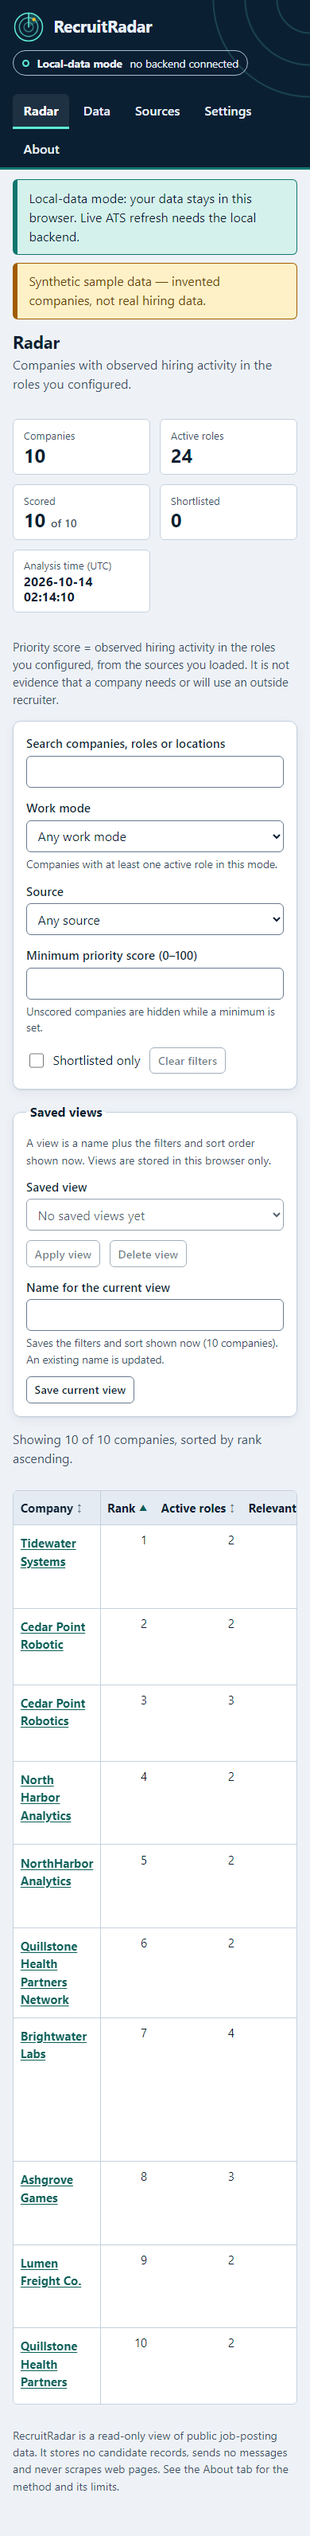
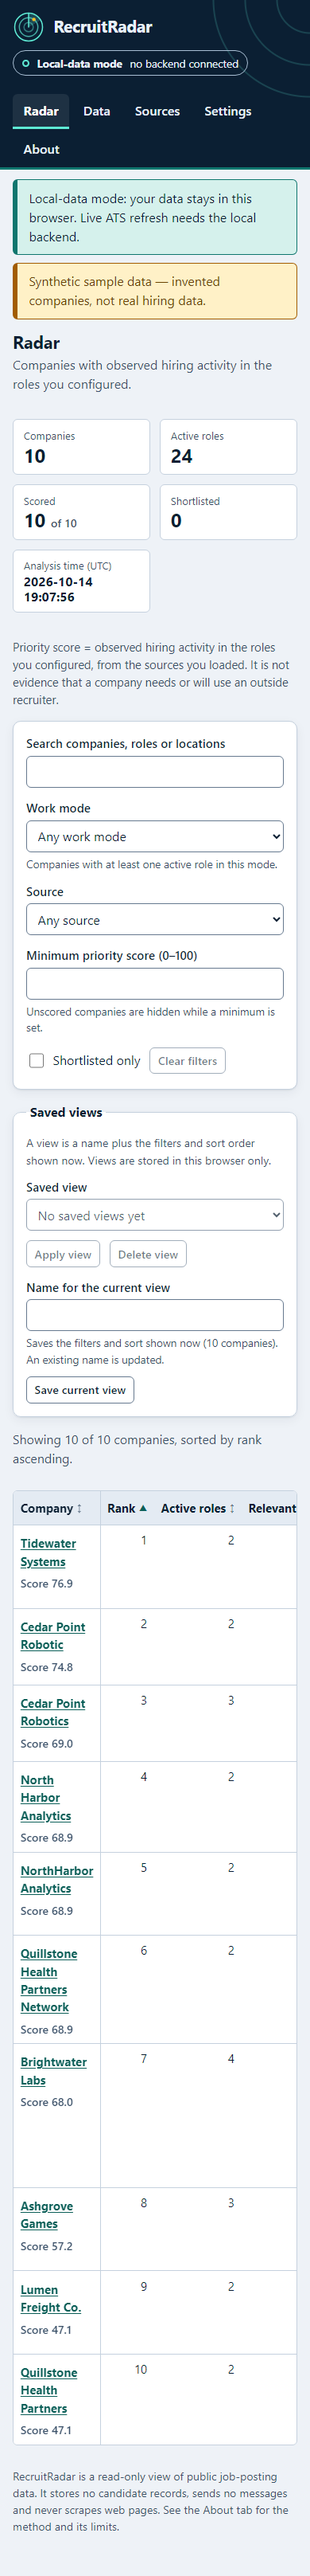
Record the independent 02B acceptance: test report, handoff, regenerated screenshots
- docs/test-report.md: Part 1 is the independent review (commands and exit codes of
  the final gate: 706 Vitest, 1,578 pytest, fuzz 948/0 and CSV 610/0, 20 Playwright;
  what was attacked; 12 findings with disposition; what could not be verified);
  Part 2 keeps the builder's 02A report.
- docs/handoff.md: state after acceptance, blockers before publication, gotchas.
- docs/screenshots/*.png regenerated from the final production build and inspected
  (mobile-radar shows the new per-row score).

diff --git a/docs/test-report.md b/docs/test-report.md
@@ -1,6 +1,189 @@
-# Test report (Prompt 02A build, builder's report)
+# Test report
 
-This is the **builder's** evidence. Independent acceptance (Prompt 02B) has not been run.
+Two reports live here. **Part 1** is the independent acceptance review (Prompt 02B, 2026-10-14): a
+separate session that did not write the code, reran everything, attacked it, fixed what it found and
+reran the gate. **Part 2** is the builder's original 02A report, kept for the record; where the two
+differ, Part 1 is the later evidence.
+
+Environment: Windows 10 (10.0.19045), Node.js v24.20.0, npm 11.19.0, Python 3.14.7, Microsoft Edge
+(Chromium) via Playwright 1.64.0. Reviewed commit: `d05d57f` (builder's last). Fixed tree: see
+`git log` on `phase/02a-build` (five review commits followed by this report).
+
+---
+
+# Part 1: independent acceptance (Prompt 02B)
+
+## Verdict
+
+**Ready for publication review.** Both required journeys work end to end; every REQUIRED V0.1 item
+exists and does what it says; nothing blocks the local demo. The review found and fixed one
+medium-severity defect class the builder's own differential testing had not looked at (two CSV
+importers that disagreed, see D-1), one scale defect (D-2) and several smaller ones (table below).
+Nothing is marked BLOCKED. Items that could not be verified here are listed under "Not verified".
+
+## Commands run and results
+
+Final gate on the fixed tree: `scripts/verify.ps1` (runs `npm ci` first), **overall exit 0**.
+
+| #   | Step                                  | Result                                                                                              |
+| --- | ------------------------------------- | --------------------------------------------------------------------------------------------------- |
+| 1   | `npm ci`                              | exit 0                                                                                              |
+| 2   | `npm run format:check`                | exit 0                                                                                              |
+| 3   | `npm run lint` (ESLint)               | exit 0                                                                                              |
+| 4   | `npm run typecheck` (`tsc --noEmit`)  | exit 0                                                                                              |
+| 5   | `npm test` (Vitest)                   | exit 0, **706 passed**, 3 skipped (the three differential-fuzz legs, which need an input file)      |
+| 6   | `npm run backend:lint` (ruff)         | exit 0                                                                                              |
+| 7   | `npm run backend:format`              | exit 0                                                                                              |
+| 8   | `npm run backend:types` (mypy strict) | exit 0                                                                                              |
+| 9   | `npm run backend:test` (pytest)       | exit 0, **1,578 passed**                                                                            |
+| 10  | `npm run vectors:check`               | exit 0 (47 analysis vectors + 173 normalization cases re-derived)                                   |
+| 11  | `npm run fuzz`                        | exit 0: analyze **948 cases / 0 mismatches** (oracle, Python, TS); CSV **610 cases / 0 mismatches** |
+| 12  | `npm run build`                       | exit 0                                                                                              |
+| 13  | `npm run secrets`                     | exit 0, no findings                                                                                 |
+| 14  | `npm run e2e` (Playwright)            | exit 0, **20 passed** against the production build under `/recruit-radar/`                          |
+
+Before the fixes, the builder's commit `d05d57f` was also cloned into a fresh directory with a new
+virtualenv (`pip install -r backend/requirements.lock.txt`) and `scripts/verify.ps1` run there:
+exit 0 (646 Vitest, 1,496 pytest, fuzz 948/0, 18 Playwright). So the builder's claim held: the
+defects below were not visible to the gate, they were missing from it.
+
+## What was attacked, and how
+
+### 1. Spec conformance, independently
+
+- **17 new scenarios hand-derived from `docs/spec/02`** before any engine was run, then compared with
+  the oracle, the Python engine and the TypeScript engine: 0 disagreements. They cover the change
+  window at exactly 30 days (excluded), +1 s (included), at `as_of` (included) and a snapshot 1 s
+  after `as_of` (ignored); the urgency threshold at exactly 45 days and 1 s short; the history span
+  at 14 vs 13 days; freshness at 7, 8, 59 and 60 days; a role removed then listed again; a
+  cross-source duplicate with corroboration; brackets, accents, CJK and keyword substring traps
+  ("engineer"/"engineering", "data"/"database"); a rename; a company whose roles all disappeared;
+  merge decisions with a stale "ghost" key; accent and full-width folding. (One expectation was
+  wrong: mine, a date-arithmetic slip at day 59/60. The engines were right.)
+- **More fuzz seeds against the unfixed tree:** seed 2 (1,648 cases), seed 99 (1,148), seed 31337
+  (748): 0 mismatches, and the 148-case accept/reject catalogue agreed on every case.
+- **Mutation checks in a scratch clone** (never the real tree): a Python-only change of the 30-day
+  window bound, a Python-only urgency threshold, a TypeScript-only window, an oracle-only freshness
+  bound: each is caught by the vectors, the engine unit tests and the fuzzer. Adding a field to a
+  Pydantic response model makes the OpenAPI drift test fail (2 failures). A formatting violation
+  makes `verify.ps1` and `verify.sh` exit 1 at the right step. A seeded GitHub-style token makes
+  `npm run secrets` exit 1.
+- The documented Unicode skew (Node 24 = Unicode 17, Python 3.14 = Unicode 16) was measured: exactly
+  4,699 letter/number/mark code points differ, none used by the golden vectors.
+
+### 2. Adapters against an adversarial ATS (own server, real sockets, 171 requests)
+
+Redirects to another host, port or scheme are refused and never followed; a redirect loop stops at
+3; declared-large, chunked and gzip-bomb bodies end in `too_large`; an endless Lever feed ends in
+`too_large` at 5,100 items; 401, 403, 404, 429 (with and without a usable `Retry-After`), 500, 204,
+an HTML 200, a `null` body, `NaN`, 100,000-deep JSON, invalid UTF-8 and an empty body each become
+exactly one recorded failed run and leave existing data untouched. Mixed-type fields (numeric ids,
+objects as titles, lone surrogates, `javascript:`/`ftp:` URLs, 10,000-character titles, duplicate ids,
+non-listed Ashby jobs) are dropped or nulled with the counts in the run message. The server saw only
+`GET`, one user agent, no cookies, no authorization header, and no path outside the three board
+templates. Job descriptions placed in every payload were never stored (searched the whole SQLite
+file). HTML in titles is stored as text and rendered as text.
+
+### 3. API
+
+22 token-bypass attempts (`../`, `%2e%2e`, `.`, `...`, unicode dots, full-width letters, NUL, newline,
+whitespace, 101 characters, `%2f`...) are all `422 invalid_token`; the same board with another letter
+case is `409 source_exists`; the error envelope was verified on 28 error paths; a CORS preflight
+from a foreign origin is refused and a foreign-origin `POST` is `403`; `DELETE /api/data` without the
+exact confirmation is `400`; 80 parallel writes and 24 parallel imports all succeed; a 40 MB body is
+`422` in 0.3 s; analysis of 50,000 stored postings takes 3.4 s. Start-up with a corrupt database,
+an unwritable path and a busy port were exercised.
+
+### 4. Journeys in the real UI
+
+The static build was served from a simulated GitHub Pages origin (`https://<account>.github.io/recruit-radar/`,
+browser route interception, nothing deployed) in a fresh browser context.
+
+- **Journey 1:** two overlapping CSVs of my own under different labels (4 + 5 rows), keywords set,
+  merge candidate found and accepted, evidence score hand-checked against the formulas (76.6: 30x1000
+  - 20x480 + 10x500 + 15x700 + 10x1000 over 85), the shortlist entry followed its company through
+    the merge, the shortlist export carried the same figures.
+- **Journey 2:** a Greenhouse board on the repository's fake ATS: first refresh baseline, board
+  changed (rename, removal, addition), second refresh shows `changed: title`, "no longer listed" and
+  "added" with timestamps and links, a listed-again role, 404/401/429/500/malformed runs recorded with
+  data preserved; a too-soon second click explains the 60 s rule; a source deleted from another tab
+  is reported when refreshed from a stale one; a company whose roles all disappear is "Not scored",
+  sorts last in both directions and exports blank score and rank.
+- **Live check, once:** one real read-only refresh per provider through the product's own adapters,
+  against the vendors' own sample/documented boards (Greenhouse's board, Lever's `leverdemo`,
+  Ashby's board): 17, 10 and 62 postings, all with dates, URLs, departments and locations mapped.
+  Three GET requests in total.
+- **Failure states:** backend offline (explained, local mode keeps working), backend answers with a
+  CORS problem (explained with the exact variable to set), storage quota exceeded (reported, nothing
+  half-saved), newer-schema and corrupt storage (kept untouched / backed up), a second tab (notice,
+  no lost update), hostile HTML in stored data (rendered as text, no script ran).
+- **Accessibility and layout:** skip link first; every tab stop has a focus ring; native dialog traps
+  focus, closes on Escape and returns focus to its trigger; `aria-sort` follows the sort; no
+  horizontal overflow at 320 px; reduced motion honored; dark mode readable; every in-page anchor
+  has a target; every external link is http(s) with `rel="noopener"`.
+- **Honesty:** the score caption, the "Possible urgency signal ... not evidence of hiring
+  difficulty" label (Radar breakdown, company page, About, exports) and "Missing information" are
+  present where the score is; no screen, export column, API field or error message implies that a
+  company needs, struggles with or will pay for a recruiter (the About page only negates it);
+  no LinkedIn, e-mail, outreach or candidate feature exists; a null component is never treated as
+  zero (sorting keeps unscored rows last in both directions, the minimum-score filter says it hides
+  them, exports leave the cells blank, coverage excludes them).
+
+## Defects found
+
+| #    | Severity   | Defect                                                                                                                                                                                                                                                                                                                                                                                                                                                                                                                                                  | Status                                                                                           |
+| ---- | ---------- | ------------------------------------------------------------------------------------------------------------------------------------------------------------------------------------------------------------------------------------------------------------------------------------------------------------------------------------------------------------------------------------------------------------------------------------------------------------------------------------------------------------------------------------------------------- | ------------------------------------------------------------------------------------------------ |
+| D-1  | Medium     | **The two CSV importers disagreed** (Python for the backend, TypeScript for local-data mode; never compared). A differential fuzz found 426 of 1,210 generated files giving different results; single-feature probes: whitespace-only lines, `""` lines, trailing empty cells, spaces around quoted fields, tab/NBSP in headers, NUL, apostrophe-led formula cells, malformed header rows, errors reported for broken rows. Connected mode re-derives correction rows with the TypeScript importer, so the in-place forms could contradict the backend. | Fixed: spec 05 "CSV details", both importers, 52 shared vectors, `fuzz_csv.py` in `npm run fuzz` |
+| D-2  | Medium     | Merge review rendered every candidate at once. 300 look-alike names ("Store 001"...) gave ~3,000 candidates and an **18 s** tab switch; 1,000 gave ~13,500.                                                                                                                                                                                                                                                                                                                                                                                             | Fixed: 25 per page; e2e `scale.spec.ts`; 1,000 look-alike companies import in about a second     |
+| D-3  | Low-medium | No `Host` header check: a hostile page whose domain is rebound to 127.0.0.1 could read the unauthenticated API as same origin.                                                                                                                                                                                                                                                                                                                                                                                                                          | Fixed: `400 host_not_allowed` before CORS/routing; `RECRUIT_RADAR_ALLOWED_HOSTS`; tests          |
+| D-4  | Low        | The 15 s provider timeout bounds each read, not the sum: a provider dripping a byte every 14 s held the global refresh lock for as long as it liked.                                                                                                                                                                                                                                                                                                                                                                                                    | Fixed: 60 s total per request; test with a drip stream                                           |
+| D-5  | Low        | A database locked by another program surfaced as an opaque 500 after 5 s.                                                                                                                                                                                                                                                                                                                                                                                                                                                                               | Fixed: `503 database_busy` + `Retry-After`; nothing lost; test                                   |
+| D-6  | Low        | A corrupt or unwritable database file crashed start-up with a traceback.                                                                                                                                                                                                                                                                                                                                                                                                                                                                                | Fixed: one line naming the file, exit code 2; tests                                              |
+| D-7  | Low        | Connected-mode shortlist export had no UTF-8 BOM (local mode did): Excel read accents as mojibake.                                                                                                                                                                                                                                                                                                                                                                                                                                                      | Fixed with tests                                                                                 |
+| D-8  | Low        | `npm run verify` omitted `npm run fuzz` although README, `verify.ps1`, `verify.sh` and CI include it.                                                                                                                                                                                                                                                                                                                                                                                                                                                   | Fixed                                                                                            |
+| D-9  | Low        | The randomized invariant suite used vitest's 5 s timeout and failed once under CPU load (flaky gate).                                                                                                                                                                                                                                                                                                                                                                                                                                                   | Fixed: 30 s project timeout                                                                      |
+| D-10 | Low        | No React error boundary: any render exception left a blank page with no explanation.                                                                                                                                                                                                                                                                                                                                                                                                                                                                    | Fixed: explained fallback; e2e forces a failure                                                  |
+| D-11 | Low        | On phones the radar's score column is off screen in the sideways-scrolling table.                                                                                                                                                                                                                                                                                                                                                                                                                                                                       | Fixed: score repeated under the name on narrow screens                                           |
+| D-12 | Info       | Settings said "Use the backend ... (also from a public page)", an unverifiable promise; architecture doc said snapshot ids are zero-padded (backend only); known limitations missed several facts.                                                                                                                                                                                                                                                                                                                                                      | Fixed (copy and docs)                                                                            |
+
+Not defects, recorded: local snapshot ids are plain sequence numbers, so two imports in the same
+wall-clock second that cross a digit boundary (9 to 10) would replay in string order (needs two
+imports within one second); the shortlist exporters word the evidence column slightly differently in
+the two modes; the e2e run rewrites tracked screenshots (documented in CONTRIBUTING).
+
+## Not verified (external or out of reach) and remaining issues
+
+- **GitHub Actions workflows** (CI, Pages): YAML parses and every action major equals the latest
+  release (checkout 7, setup-node 7, setup-python 7, upload-artifact 7, configure-pages 6,
+  upload-pages-artifact 5, deploy-pages 5), but nothing can run without a remote.
+- **Python 3.11 / 3.12 and Linux**: only Python 3.14 on Windows was available; mypy is configured
+  for 3.11 and passes. CI targets 3.12.
+- **A public page reaching a local backend**: depends on the browser's local-network-access policy;
+  not testable without a published page. The app explains the CORS and offline cases it can see.
+- **Browsers other than Edge/Chromium, a real screen reader, 200% browser zoom**: not tested (320 px
+  reflow, keyboard and contrast were).
+- **Content-Security-Policy**: none (GitHub Pages cannot set headers and no meta policy was added).
+- Git history carries the local author e-mail address (owner decision before publishing).
+
+## README claims checked against the running app
+
+Every bullet under "What it does", the quick-start commands (clean clone, new virtualenv), the command
+table, the ethics paragraph, the test counts (47 vectors, 173 normalization cases, ~950 fuzz cases)
+and the status paragraph match observed behavior. Corrected: the `npm run verify` description
+(fuzz missing), the fuzz row, and the CSV-importer sentence. Screenshots in `docs/screenshots/` were
+regenerated from the final production build and inspected: `desktop-radar.png`, `desktop-company.png`,
+`desktop-radar-dark.png`, `desktop-sources.png`, `mobile-radar.png` (shows the new per-row score).
+License is MIT (copyright PatrickNDevelopment); 204 npm packages (4 shipped at runtime, all MIT) and the 34
+Python distributions in the virtualenv carry permissive licenses; no GPL, no unspecified license; no fonts, images or
+scripts are loaded from other sites; the secret scan and a manual scan found no secrets, local paths
+or personal data in the tree or in the content of the 10 commits of history (apart from the author
+e-mail address in commit metadata, above).
+
+---
+
+# Part 2: builder's report (Prompt 02A), unchanged
+
+This is the **builder's** evidence.
 
 Environment: Windows 10, Node.js v24.20.0, npm 11.19.0, Python 3.14.7, Microsoft Edge (Chromium)
 via Playwright 1.64.0. Date: 2026-10-13/14. Command: `scripts/verify.ps1` (runs `npm ci` first).
@@ -48,11 +231,6 @@ Playwright). The commit therefore contains everything the gate needs.
 - Text contrast meets WCAG AA (4.5:1; 3:1 large) on every tab in light **and** dark mode.
 - Honesty copy present; no recruiter-need / hiring-pain assertions (About may only negate them).
 
-## Screenshots inspected
-
-`desktop-radar.png`, `desktop-company.png`, `mobile-radar.png`, `desktop-radar-dark.png`,
-`desktop-sources.png`.
-
 ## Defects found by running the product (all fixed)
 
 | Defect                                                                                                                                             | Where found         | Fix                                                                                |
@@ -63,15 +241,10 @@ Playwright). The commit therefore contains everything the gate needs.
 | `pyproject.toml` written with a UTF-8 BOM broke pytest/mypy config parsing                                                                         | engine agent report | BOM removed                                                                        |
 | 212 of 940 fuzz cases mismatched between engines (10 root causes, D-1..D-10)                                                                       | differential fuzz   | decided from the spec; vectors 45-47; regression tests in both engines             |
 
-## Process note
-
-The parallel build was interrupted three times (two usage limits, one API 529). Work recovered from
-the interrupted agents was verified and completed inline. Every number above comes from the final
-`scripts/verify.ps1` run on the committed tree, not from agent reports.
-
-## Not tested
+## Not tested (by the builder)
 
 - Firefox and Safari; screen readers; 200% zoom.
-- Real provider traffic (all provider payloads are synthetic, in the documented shapes).
+- Real provider traffic (all provider payloads are synthetic, in the documented shapes), since
+  checked once by the 02B review (Part 1).
 - The GitHub Actions workflows (never executed; no remote).
 - Python versions other than 3.14 locally (CI targets 3.12).

diff --git a/docs/handoff.md b/docs/handoff.md
@@ -1,7 +1,8 @@
 # Handoff
 
-**State:** v0.1 built locally on branch `phase/02a-build`. Independent acceptance (Prompt 02B) has
-**not** been run. Not pushed, not deployed.
+**State:** v0.1 built locally on branch `phase/02a-build`, then independently reviewed and corrected
+in Prompt 02B (2026-10-14, see `docs/test-report.md`). Gate G2 is met: status
+`ready_for_publication_review`. Not pushed, not deployed, no remote exists.
 
 ## Run
 
@@ -10,42 +11,55 @@ npm ci
 python -m venv .venv ; .\.venv\Scripts\python -m pip install -r backend\requirements.lock.txt
 npm run dev                                  # local-data mode: http://localhost:5173/recruit-radar/
 cd backend ; ..\.venv\Scripts\python -m recruit_radar   # backend: http://127.0.0.1:8787
-npm run verify                               # full gate (or scripts/verify.ps1)
+npm run verify                               # full gate (or scripts/verify.ps1 / verify.sh)
 ```
 
 ## What really works
 
 - Radar, company detail with score breakdown and missing information, role history events.
-- Manual entry, CSV import with line-level errors and in-place correction, datasets, merge review,
-  shortlist with notes, shortlist and postings CSV export, saved views, role keywords.
-- Local-data mode (localStorage, corruption recovery, newer-schema protection, cross-tab notice).
-- Connected mode: SQLite + Alembic, Greenhouse / Lever / Ashby read-only adapters, refresh history,
-  error taxonomy, failed runs keep data, OpenAPI contract with drift test.
-- Two independent engines + oracle, 47 golden analysis vectors, 173 normalization cases, three-way
-  differential fuzz (see `docs/spec/ambiguities/differential.md`).
+- Manual entry, CSV import with line-level errors and in-place correction, datasets, merge review
+  (paged, 25 at a time), shortlist with notes, shortlist and postings CSV export, saved views, role
+  keywords.
+- Local-data mode (localStorage, corruption recovery, newer-schema protection, cross-tab notice,
+  quota failure is reported and nothing half-saved).
+- Connected mode: SQLite + Alembic, Greenhouse / Lever / Ashby read-only adapters (also checked once
+  against the three providers' live sample boards), refresh history, error taxonomy, failed runs
+  keep data, OpenAPI contract with drift test, Host/Origin guards, busy-database 503.
+- Two independent `analyze()` engines + oracle (47 golden vectors, 173 normalization cases,
+  three-way differential fuzz) **and** two independent CSV importers held to 52 shared vectors and
+  their own differential fuzz (`contracts/tools/fuzz_csv.py`).
 
 ## What is absent
 
-- No hosted demo; the Pages workflow has never run (no remote).
+- No hosted demo; the Pages and CI workflows have never run (no remote).
 - No scheduled refresh, no auth (loopback only), no HTML scraping, no candidate data (by design).
-- Provider payload shapes come from documentation, not from recordings of live traffic.
+- Connected mode cannot remove a single dataset or export raw postings (no backend endpoint).
+- No automated provider-traffic test (the 02B live check was a one-off, recorded in the report).
 
 ## Release blockers before publication
 
-1. Run Prompt 02B (independent adversarial acceptance) in a fresh session.
+1. Owner review of README, screenshots, limitations, license and secrets scan (gate G3).
 2. Owner approval to create the public repo, push, and enable Pages (MIT and the
    `PatrickNDevelopment` account are already confirmed, decision D-005).
-3. Verify the CI workflows on a real remote (never executed locally).
-4. Decide whether to rewrite the git author e-mail in history before publishing.
+3. Run the CI and Pages workflows on a real remote (never executed locally; Python 3.11/3.12 and
+   Linux were not available to the reviewers).
+4. Decide whether to rewrite the git author e-mail in history before publishing (the commits carry
+   the local author e-mail address).
 
 ## Next exact step
 
-Open a **new** Claude Code session at `C:\Users\patno\Desktop\Github` and paste **Prompt 02B** from
-`Claude_GitHub_Portfolio_Build_Chain.md`.
+Owner review (G3). If approved, the next prompt in the chain is **03A (SourceTrace)**; publishing
+this repository is a separate, explicitly approved action.
 
 ## Gotchas
 
 - `vite.config.ts` sets `base: '/recruit-radar/'`; e2e tests use that prefix on port 4174.
 - Ports: backend 8787, fake ATS 8788, preview 4174, dev 5173.
 - If you change scoring, identity or normalization: spec, both engines and the oracle together,
-  then `npm run fuzz` must report 0 mismatches.
+  then `npm run fuzz` must report 0 mismatches. If you change CSV parsing or validation: spec 05
+  "CSV details", both importers (`src/engine/csv.ts`, `backend/recruit_radar/services/csv_io.py`)
+  and `contracts/vectors/csv-import.json` together.
+- `npm run e2e` rewrites `docs/screenshots/*.png` (they carry a timestamp); commit them only when
+  the UI changed.
+- The backend refuses requests whose `Host` is not loopback / its bind address /
+  `RECRUIT_RADAR_ALLOWED_HOSTS` (DNS-rebinding guard).
